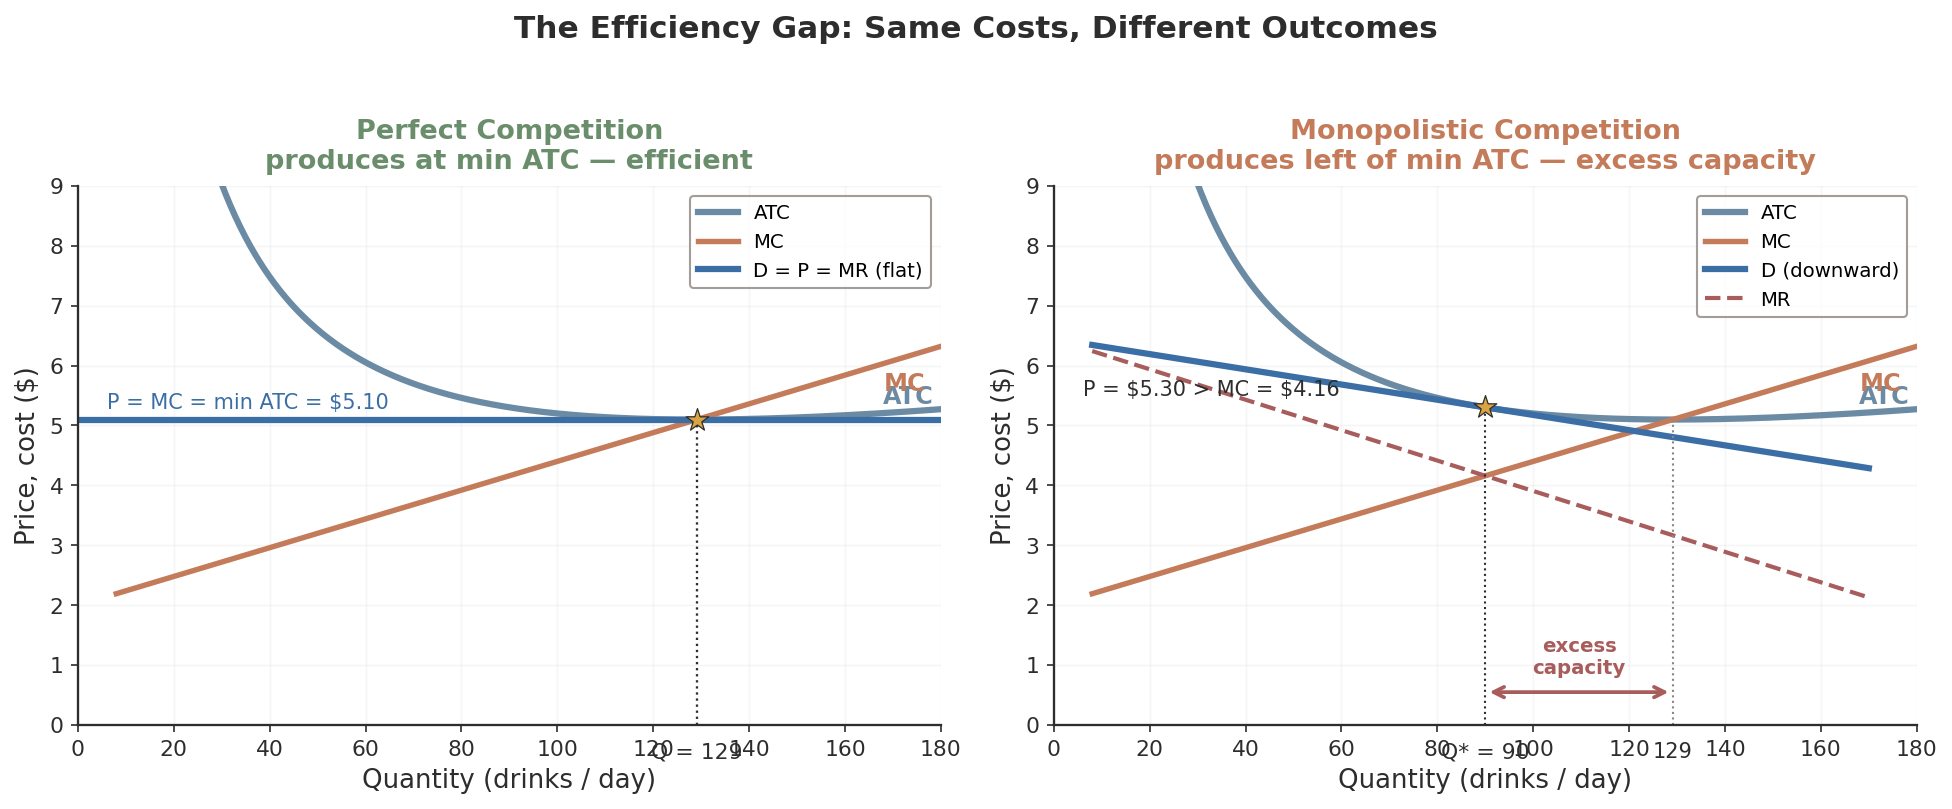
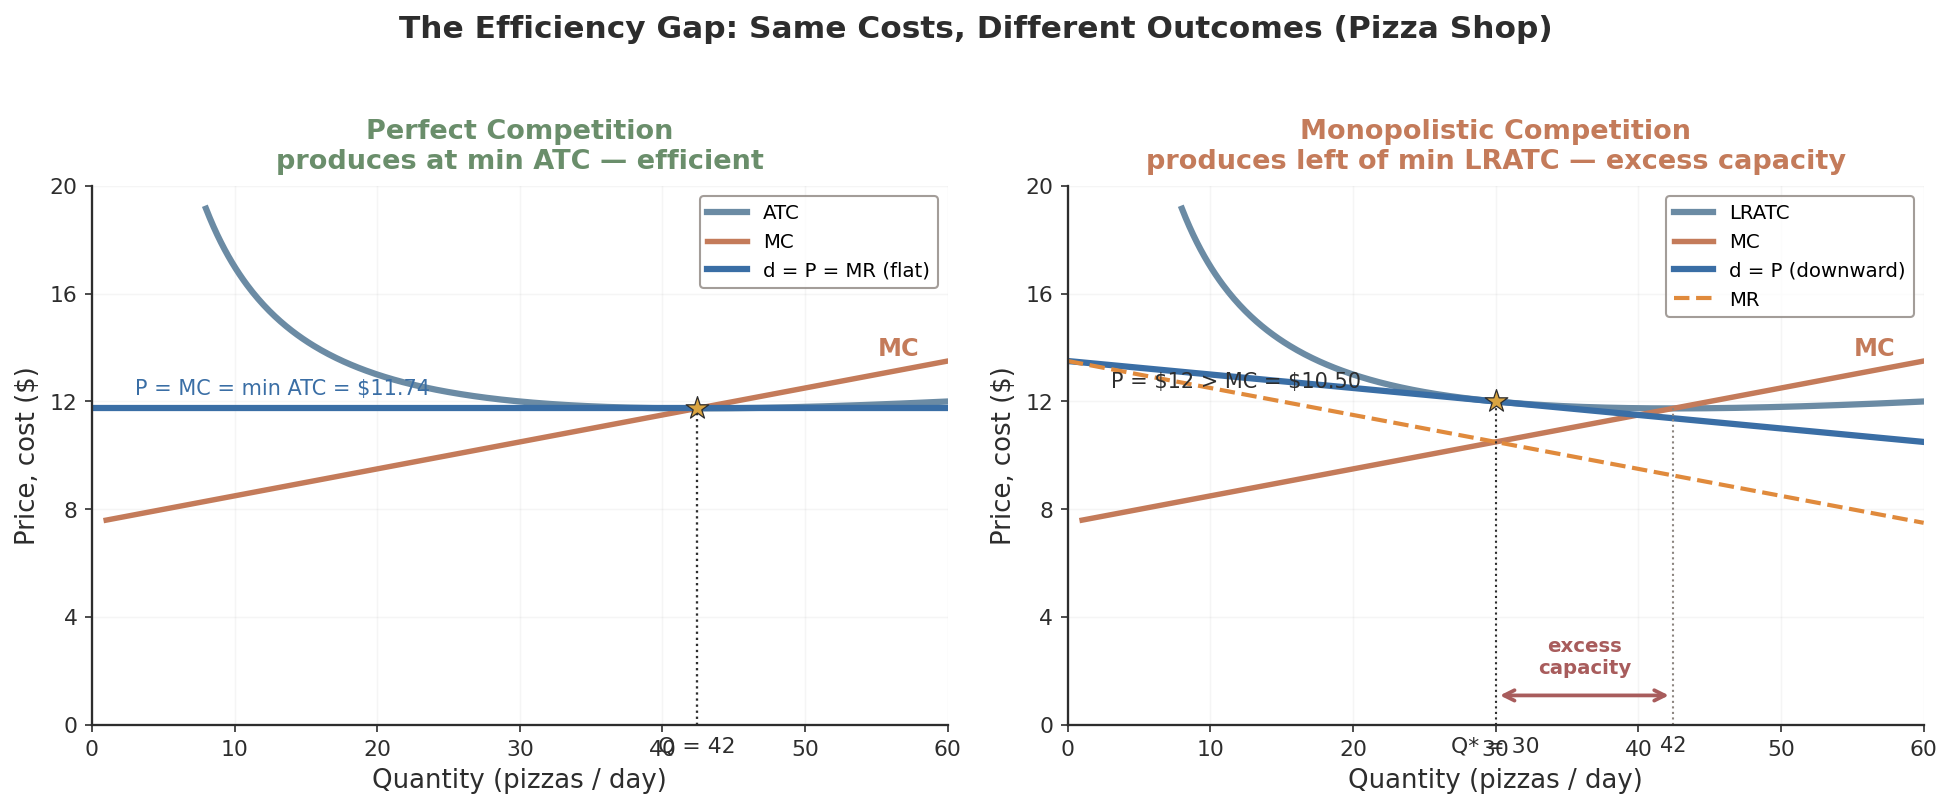
ch12: rescale cost-curve charts to pizza market (P=$12, Q=30/day; LRATC labels)
Pages 35/41 (native f121/f122) + 42/46/50 (static figs) rescaled to FC=90,v=7.5,
w=0.05: long-run tangency at Q*=30, P=LRATC=$12, MC=$10.50, markup $1.50, min
LRATC $11.74 @ Q=42. Axes 'pizzas/day' $0-20. Long-run charts labeled LRATC.

diff --git a/econ1116/ch12-monopolistic-competition/index.html b/econ1116/ch12-monopolistic-competition/index.html
@@ -604,11 +604,11 @@
   <div style="text-align: center; margin-bottom: 2px;"><span id="f121-banner" style="display:inline-block; font-size:12pt; font-weight:700; padding:3px 16px; border-radius:6px;"></span></div>
   <div id="f121-score" style="text-align:center; font-size:12pt; font-weight:700; display:flex; flex-wrap:wrap; justify-content:center; gap:3px 18px; margin:0 0 2px; min-height:16px;"></div>
   <svg id="f121-svg" viewBox="0 0 700 380" preserveAspectRatio="xMidYMid meet" style="width:100%; height:auto; max-height:318px; display:block;"></svg>
-  <div style="max-width: 540px; margin: 4px auto 0;"><label class="iv-label">Demand position &mdash; entry shifts it left, exit shifts it right</label><input type="range" class="iv-slider" id="f121-a" min="5.2" max="7.8" step="0.02" value="7.4"></div>
+  <div style="max-width: 540px; margin: 4px auto 0;"><label class="iv-label">Demand position &mdash; entry shifts it left, exit shifts it right</label><input type="range" class="iv-slider" id="f121-a" min="12.0" max="15.0" step="0.05" value="14.5"></div>
   <div style="text-align:center; margin-top:6px; display:flex; gap:8px; justify-content:center; flex-wrap:wrap;">
-   <button class="iv-btn" data-a="7.4" data-grp="f121">Short-Run Profit</button>
-   <button class="iv-btn" data-a="6.42" data-grp="f121">Long-Run (P = ATC)</button>
-   <button class="iv-btn" data-a="5.5" data-grp="f121">Short-Run Loss</button>
+   <button class="iv-btn" data-a="14.5" data-grp="f121">Short-Run Profit</button>
+   <button class="iv-btn" data-a="13.5" data-grp="f121">Long-Run (P = ATC)</button>
+   <button class="iv-btn" data-a="12.5" data-grp="f121">Short-Run Loss</button>
   </div>
   <p class="iv-cap">Figure 12.1 &mdash; drag demand or pick a scenario. Q* is where MR = MC; the rectangle is profit (green) or loss (red).</p>
  </div>
@@ -697,7 +697,7 @@
    <div style="text-align:center; margin-bottom:2px;"><span id="f122-banner" style="display:inline-block; font-size:11pt; font-weight:700; padding:2px 12px; border-radius:6px;"></span></div>
    <div id="f122-score" style="text-align:center; font-size:10.5pt; font-weight:700; display:flex; flex-wrap:wrap; justify-content:center; gap:2px 12px; margin:0 0 2px; min-height:14px;"></div>
    <svg id="f122-svg" viewBox="0 0 700 380" preserveAspectRatio="xMidYMid meet" style="width:100%; height:auto; max-height:288px; display:block;"></svg>
-   <div style="max-width:420px; margin:4px auto 0;"><label class="iv-label">Drag demand &mdash; up = profit, down = loss</label><input type="range" class="iv-slider" id="f122-a" min="5.2" max="7.8" step="0.02" value="6.42"></div>
+   <div style="max-width:420px; margin:4px auto 0;"><label class="iv-label">Drag demand &mdash; up = profit, down = loss</label><input type="range" class="iv-slider" id="f122-a" min="12.0" max="15.0" step="0.05" value="13.5"></div>
    <div style="text-align:center; margin-top:6px;"><button class="iv-btn" id="f122-release"><i class="fa-solid fa-arrows-rotate"></i> Release &rarr; entry/exit eases to tangency</button></div>
    <p class="iv-cap">Figure 12.2 &mdash; the tangency is an <strong>attractor</strong>: perturb demand, release, and entry/exit pulls it back to P = ATC.</p>
   </div>
@@ -1324,12 +1324,13 @@
 <!-- ===== Native interactive monopolistic-competition charts (Figures 12.1 & 12.2), fig-airline-interactive house style ===== -->
 <script>
 (function(){
- function makeMC(prefix, defA, attractor){
+ function makeMC(prefix, defA, attractor, atcLabel){
+  atcLabel = atcLabel || 'ATC';
   var svg=document.getElementById(prefix+'-svg'); if(!svg) return;
   var aS=document.getElementById(prefix+'-a');
   var bn=document.getElementById(prefix+'-banner'), sc=document.getElementById(prefix+'-score');
-  var FC=200, V=2, W=0.012, B=0.0124, TAN=6.42;
-  var QMAX=160, PMAX=10, L=56, R=678, T=20, Bm=330;
+  var FC=90, V=7.5, W=0.05, B=0.05, TAN=13.5;
+  var QMAX=60, PMAX=20, L=56, R=678, T=20, Bm=330;
   function xx(q){return L+q*((R-L)/QMAX);}
   function yy(p){return Bm-p*((Bm-T)/PMAX);}
   function ATC(q){return FC/q+V+W*q;}
@@ -1340,11 +1341,11 @@
   function pathfn(fn,q0,q1){var d='',f=true,q,vv;for(q=q0;q<=q1+1e-6;q+=2){vv=fn(q);if(vv>PMAX+0.4||vv<-0.4){f=true;continue;}d+=(f?'M':'L')+xx(q).toFixed(1)+' '+yy(vv).toFixed(1)+' ';f=false;}return d;}
   function axes(){
    var s='',p,q,x,y;
-   for(p=0;p<=PMAX;p+=2){y=yy(p);s+='<line x1="'+L+'" y1="'+y+'" x2="'+R+'" y2="'+y+'" stroke="rgba(150,150,150,0.20)" stroke-width="1"/><text x="'+(L-7)+'" y="'+(y+4)+'" text-anchor="end" font-size="11" fill="#8C8580">$'+p+'</text>';}
-   for(q=0;q<=QMAX;q+=40){x=xx(q);s+='<line x1="'+x+'" y1="'+T+'" x2="'+x+'" y2="'+Bm+'" stroke="rgba(150,150,150,0.12)" stroke-width="1"/><text x="'+x+'" y="'+(Bm+17)+'" text-anchor="middle" font-size="11" fill="#8C8580">'+q+'</text>';}
+   for(p=0;p<=PMAX;p+=4){y=yy(p);s+='<line x1="'+L+'" y1="'+y+'" x2="'+R+'" y2="'+y+'" stroke="rgba(150,150,150,0.20)" stroke-width="1"/><text x="'+(L-7)+'" y="'+(y+4)+'" text-anchor="end" font-size="11" fill="#8C8580">$'+p+'</text>';}
+   for(q=0;q<=QMAX;q+=15){x=xx(q);s+='<line x1="'+x+'" y1="'+T+'" x2="'+x+'" y2="'+Bm+'" stroke="rgba(150,150,150,0.12)" stroke-width="1"/><text x="'+x+'" y="'+(Bm+17)+'" text-anchor="middle" font-size="11" fill="#8C8580">'+q+'</text>';}
    s+='<line x1="'+L+'" y1="'+T+'" x2="'+L+'" y2="'+Bm+'" stroke="#3A3632" stroke-width="1.4"/><line x1="'+L+'" y1="'+Bm+'" x2="'+R+'" y2="'+Bm+'" stroke="#3A3632" stroke-width="1.4"/>';
    s+='<text x="15" y="175" text-anchor="middle" font-size="11" fill="#3A3632" transform="rotate(-90 15 175)">Price, cost ($)</text>';
-   s+='<text x="367" y="'+(Bm+34)+'" text-anchor="middle" font-size="11.5" fill="#3A3632">Quantity (drinks / day)</text>';
+   s+='<text x="367" y="'+(Bm+34)+'" text-anchor="middle" font-size="11.5" fill="#3A3632">Quantity (pizzas / day)</text>';
    return s;
   }
   function draw(){
@@ -1358,8 +1359,8 @@
    s+='<path d="'+pathfn(MC,2,QMAX)+'" fill="none" stroke="#C47B5A" stroke-width="2.4"/>';
    s+='<path d="'+pathfn(function(q){return Df(a,q);},0,QMAX)+'" fill="none" stroke="#2563eb" stroke-width="2.8"/>';
    s+='<path d="'+pathfn(function(q){return MRf(a,q);},0,QMAX)+'" fill="none" stroke="#8b5cf6" stroke-width="2.2" stroke-dasharray="7 4"/>';
-   s+='<text x="'+(R-4)+'" y="'+(yy(MC(157))-6).toFixed(1)+'" text-anchor="end" font-size="12" font-weight="700" fill="#C47B5A">MC</text>';
-   s+='<text x="'+(R-4)+'" y="'+(yy(ATC(157))+15).toFixed(1)+'" text-anchor="end" font-size="12" font-weight="700" fill="#6B8BA4">ATC</text>';
+   s+='<text x="'+(R-4)+'" y="'+(yy(MC(57))-6).toFixed(1)+'" text-anchor="end" font-size="12" font-weight="700" fill="#C47B5A">MC</text>';
+   s+='<text x="'+(R-4)+'" y="'+(yy(ATC(57))+15).toFixed(1)+'" text-anchor="end" font-size="12" font-weight="700" fill="#6B8BA4">'+atcLabel+'</text>';
    s+='<text x="'+(xx(QMAX)-4)+'" y="'+(yy(Df(a,QMAX))-7).toFixed(1)+'" text-anchor="end" font-size="12.5" font-weight="700" font-style="italic" fill="#2563eb">D</text>';
    s+='<text x="'+xx(Math.min(QMAX-12,qs+26)).toFixed(1)+'" y="'+(yy(MRf(a,Math.min(QMAX-12,qs+26)))+14).toFixed(1)+'" font-size="11.5" font-weight="700" font-style="italic" fill="#8b5cf6">MR</text>';
    s+='<line x1="'+xx(qs).toFixed(1)+'" y1="'+yy(P).toFixed(1)+'" x2="'+xx(qs).toFixed(1)+'" y2="'+Bm+'" stroke="#9ca3af" stroke-width="1" stroke-dasharray="4 3"/>';
@@ -1368,12 +1369,12 @@
    s+='<circle cx="'+xx(qs).toFixed(1)+'" cy="'+yy(P).toFixed(1)+'" r="6.5" fill="#2563eb" stroke="#fff" stroke-width="2"/>';
    svg.innerHTML=s;
    var z=prof>0.5?'profit':(prof<-0.5?'loss':'zero');
-   var bt=z==='profit'?'P &gt; ATC &rarr; economic profit &mdash; new firms enter':(z==='loss'?'P &lt; ATC &rarr; economic loss &mdash; firms exit':'P = ATC &rarr; zero economic profit (long-run rest)');
+   var bt=z==='profit'?'P &gt; '+atcLabel+' &rarr; economic profit &mdash; new firms enter':(z==='loss'?'P &lt; '+atcLabel+' &rarr; economic loss &mdash; firms exit':'P = '+atcLabel+' &rarr; zero economic profit (long-run rest)');
    var bc=z==='profit'?'#4d7a4e':(z==='loss'?'#A85C5C':'#3A5A8A');
    var bg=z==='profit'?'rgba(106,142,107,0.16)':(z==='loss'?'rgba(168,92,92,0.14)':'rgba(107,139,164,0.16)');
    bn.innerHTML=bt; bn.style.color=bc; bn.style.background=bg;
    var pc=prof>=0?'#4d7a4e':'#A85C5C';
-   sc.innerHTML='<span style="color:#2563eb;">P* = $'+P.toFixed(2)+'</span><span style="color:#6B8BA4;">ATC = $'+atc.toFixed(2)+'</span><span style="color:#3A3632;">Q* = '+qs.toFixed(0)+'</span><span style="color:'+pc+';">Profit = $'+prof.toFixed(0)+'</span>';
+   sc.innerHTML='<span style="color:#2563eb;">P* = $'+P.toFixed(2)+'</span><span style="color:#6B8BA4;">'+atcLabel+' = $'+atc.toFixed(2)+'</span><span style="color:#3A3632;">Q* = '+qs.toFixed(0)+'</span><span style="color:'+pc+';">Profit = $'+prof.toFixed(0)+'</span>';
    document.querySelectorAll('[data-a][data-grp="'+prefix+'"]').forEach(function(btn){btn.classList.toggle('active',Math.abs(parseFloat(btn.dataset.a)-a)<0.03);});
   }
   aS.addEventListener('input',draw);
@@ -1388,8 +1389,8 @@
   }
   aS.value=defA; draw();
  }
- makeMC('f121', 7.4, false);
- makeMC('f122', 6.42, true);
+ makeMC('f121', 14.5, false, 'ATC');
+ makeMC('f122', 13.5, true, 'LRATC');
 })();
 </script>
 </body>

diff --git a/econ1116/ch12-monopolistic-competition/presentation.html b/econ1116/ch12-monopolistic-competition/presentation.html
@@ -604,11 +604,11 @@
   <div style="text-align: center; margin-bottom: 2px;"><span id="f121-banner" style="display:inline-block; font-size:12pt; font-weight:700; padding:3px 16px; border-radius:6px;"></span></div>
   <div id="f121-score" style="text-align:center; font-size:12pt; font-weight:700; display:flex; flex-wrap:wrap; justify-content:center; gap:3px 18px; margin:0 0 2px; min-height:16px;"></div>
   <svg id="f121-svg" viewBox="0 0 700 380" preserveAspectRatio="xMidYMid meet" style="width:100%; height:auto; max-height:318px; display:block;"></svg>
-  <div style="max-width: 540px; margin: 4px auto 0;"><label class="iv-label">Demand position &mdash; entry shifts it left, exit shifts it right</label><input type="range" class="iv-slider" id="f121-a" min="5.2" max="7.8" step="0.02" value="7.4"></div>
+  <div style="max-width: 540px; margin: 4px auto 0;"><label class="iv-label">Demand position &mdash; entry shifts it left, exit shifts it right</label><input type="range" class="iv-slider" id="f121-a" min="12.0" max="15.0" step="0.05" value="14.5"></div>
   <div style="text-align:center; margin-top:6px; display:flex; gap:8px; justify-content:center; flex-wrap:wrap;">
-   <button class="iv-btn" data-a="7.4" data-grp="f121">Short-Run Profit</button>
-   <button class="iv-btn" data-a="6.42" data-grp="f121">Long-Run (P = ATC)</button>
-   <button class="iv-btn" data-a="5.5" data-grp="f121">Short-Run Loss</button>
+   <button class="iv-btn" data-a="14.5" data-grp="f121">Short-Run Profit</button>
+   <button class="iv-btn" data-a="13.5" data-grp="f121">Long-Run (P = ATC)</button>
+   <button class="iv-btn" data-a="12.5" data-grp="f121">Short-Run Loss</button>
   </div>
   <p class="iv-cap">Figure 12.1 &mdash; drag demand or pick a scenario. Q* is where MR = MC; the rectangle is profit (green) or loss (red).</p>
  </div>
@@ -697,7 +697,7 @@
    <div style="text-align:center; margin-bottom:2px;"><span id="f122-banner" style="display:inline-block; font-size:11pt; font-weight:700; padding:2px 12px; border-radius:6px;"></span></div>
    <div id="f122-score" style="text-align:center; font-size:10.5pt; font-weight:700; display:flex; flex-wrap:wrap; justify-content:center; gap:2px 12px; margin:0 0 2px; min-height:14px;"></div>
    <svg id="f122-svg" viewBox="0 0 700 380" preserveAspectRatio="xMidYMid meet" style="width:100%; height:auto; max-height:288px; display:block;"></svg>
-   <div style="max-width:420px; margin:4px auto 0;"><label class="iv-label">Drag demand &mdash; up = profit, down = loss</label><input type="range" class="iv-slider" id="f122-a" min="5.2" max="7.8" step="0.02" value="6.42"></div>
+   <div style="max-width:420px; margin:4px auto 0;"><label class="iv-label">Drag demand &mdash; up = profit, down = loss</label><input type="range" class="iv-slider" id="f122-a" min="12.0" max="15.0" step="0.05" value="13.5"></div>
    <div style="text-align:center; margin-top:6px;"><button class="iv-btn" id="f122-release"><i class="fa-solid fa-arrows-rotate"></i> Release &rarr; entry/exit eases to tangency</button></div>
    <p class="iv-cap">Figure 12.2 &mdash; the tangency is an <strong>attractor</strong>: perturb demand, release, and entry/exit pulls it back to P = ATC.</p>
   </div>
@@ -1324,12 +1324,13 @@
 <!-- ===== Native interactive monopolistic-competition charts (Figures 12.1 & 12.2), fig-airline-interactive house style ===== -->
 <script>
 (function(){
- function makeMC(prefix, defA, attractor){
+ function makeMC(prefix, defA, attractor, atcLabel){
+  atcLabel = atcLabel || 'ATC';
   var svg=document.getElementById(prefix+'-svg'); if(!svg) return;
   var aS=document.getElementById(prefix+'-a');
   var bn=document.getElementById(prefix+'-banner'), sc=document.getElementById(prefix+'-score');
-  var FC=200, V=2, W=0.012, B=0.0124, TAN=6.42;
-  var QMAX=160, PMAX=10, L=56, R=678, T=20, Bm=330;
+  var FC=90, V=7.5, W=0.05, B=0.05, TAN=13.5;
+  var QMAX=60, PMAX=20, L=56, R=678, T=20, Bm=330;
   function xx(q){return L+q*((R-L)/QMAX);}
   function yy(p){return Bm-p*((Bm-T)/PMAX);}
   function ATC(q){return FC/q+V+W*q;}
@@ -1340,11 +1341,11 @@
   function pathfn(fn,q0,q1){var d='',f=true,q,vv;for(q=q0;q<=q1+1e-6;q+=2){vv=fn(q);if(vv>PMAX+0.4||vv<-0.4){f=true;continue;}d+=(f?'M':'L')+xx(q).toFixed(1)+' '+yy(vv).toFixed(1)+' ';f=false;}return d;}
   function axes(){
    var s='',p,q,x,y;
-   for(p=0;p<=PMAX;p+=2){y=yy(p);s+='<line x1="'+L+'" y1="'+y+'" x2="'+R+'" y2="'+y+'" stroke="rgba(150,150,150,0.20)" stroke-width="1"/><text x="'+(L-7)+'" y="'+(y+4)+'" text-anchor="end" font-size="11" fill="#8C8580">$'+p+'</text>';}
-   for(q=0;q<=QMAX;q+=40){x=xx(q);s+='<line x1="'+x+'" y1="'+T+'" x2="'+x+'" y2="'+Bm+'" stroke="rgba(150,150,150,0.12)" stroke-width="1"/><text x="'+x+'" y="'+(Bm+17)+'" text-anchor="middle" font-size="11" fill="#8C8580">'+q+'</text>';}
+   for(p=0;p<=PMAX;p+=4){y=yy(p);s+='<line x1="'+L+'" y1="'+y+'" x2="'+R+'" y2="'+y+'" stroke="rgba(150,150,150,0.20)" stroke-width="1"/><text x="'+(L-7)+'" y="'+(y+4)+'" text-anchor="end" font-size="11" fill="#8C8580">$'+p+'</text>';}
+   for(q=0;q<=QMAX;q+=15){x=xx(q);s+='<line x1="'+x+'" y1="'+T+'" x2="'+x+'" y2="'+Bm+'" stroke="rgba(150,150,150,0.12)" stroke-width="1"/><text x="'+x+'" y="'+(Bm+17)+'" text-anchor="middle" font-size="11" fill="#8C8580">'+q+'</text>';}
    s+='<line x1="'+L+'" y1="'+T+'" x2="'+L+'" y2="'+Bm+'" stroke="#3A3632" stroke-width="1.4"/><line x1="'+L+'" y1="'+Bm+'" x2="'+R+'" y2="'+Bm+'" stroke="#3A3632" stroke-width="1.4"/>';
    s+='<text x="15" y="175" text-anchor="middle" font-size="11" fill="#3A3632" transform="rotate(-90 15 175)">Price, cost ($)</text>';
-   s+='<text x="367" y="'+(Bm+34)+'" text-anchor="middle" font-size="11.5" fill="#3A3632">Quantity (drinks / day)</text>';
+   s+='<text x="367" y="'+(Bm+34)+'" text-anchor="middle" font-size="11.5" fill="#3A3632">Quantity (pizzas / day)</text>';
    return s;
   }
   function draw(){
@@ -1358,8 +1359,8 @@
    s+='<path d="'+pathfn(MC,2,QMAX)+'" fill="none" stroke="#C47B5A" stroke-width="2.4"/>';
    s+='<path d="'+pathfn(function(q){return Df(a,q);},0,QMAX)+'" fill="none" stroke="#2563eb" stroke-width="2.8"/>';
    s+='<path d="'+pathfn(function(q){return MRf(a,q);},0,QMAX)+'" fill="none" stroke="#8b5cf6" stroke-width="2.2" stroke-dasharray="7 4"/>';
-   s+='<text x="'+(R-4)+'" y="'+(yy(MC(157))-6).toFixed(1)+'" text-anchor="end" font-size="12" font-weight="700" fill="#C47B5A">MC</text>';
-   s+='<text x="'+(R-4)+'" y="'+(yy(ATC(157))+15).toFixed(1)+'" text-anchor="end" font-size="12" font-weight="700" fill="#6B8BA4">ATC</text>';
+   s+='<text x="'+(R-4)+'" y="'+(yy(MC(57))-6).toFixed(1)+'" text-anchor="end" font-size="12" font-weight="700" fill="#C47B5A">MC</text>';
+   s+='<text x="'+(R-4)+'" y="'+(yy(ATC(57))+15).toFixed(1)+'" text-anchor="end" font-size="12" font-weight="700" fill="#6B8BA4">'+atcLabel+'</text>';
    s+='<text x="'+(xx(QMAX)-4)+'" y="'+(yy(Df(a,QMAX))-7).toFixed(1)+'" text-anchor="end" font-size="12.5" font-weight="700" font-style="italic" fill="#2563eb">D</text>';
    s+='<text x="'+xx(Math.min(QMAX-12,qs+26)).toFixed(1)+'" y="'+(yy(MRf(a,Math.min(QMAX-12,qs+26)))+14).toFixed(1)+'" font-size="11.5" font-weight="700" font-style="italic" fill="#8b5cf6">MR</text>';
    s+='<line x1="'+xx(qs).toFixed(1)+'" y1="'+yy(P).toFixed(1)+'" x2="'+xx(qs).toFixed(1)+'" y2="'+Bm+'" stroke="#9ca3af" stroke-width="1" stroke-dasharray="4 3"/>';
@@ -1368,12 +1369,12 @@
    s+='<circle cx="'+xx(qs).toFixed(1)+'" cy="'+yy(P).toFixed(1)+'" r="6.5" fill="#2563eb" stroke="#fff" stroke-width="2"/>';
    svg.innerHTML=s;
    var z=prof>0.5?'profit':(prof<-0.5?'loss':'zero');
-   var bt=z==='profit'?'P &gt; ATC &rarr; economic profit &mdash; new firms enter':(z==='loss'?'P &lt; ATC &rarr; economic loss &mdash; firms exit':'P = ATC &rarr; zero economic profit (long-run rest)');
+   var bt=z==='profit'?'P &gt; '+atcLabel+' &rarr; economic profit &mdash; new firms enter':(z==='loss'?'P &lt; '+atcLabel+' &rarr; economic loss &mdash; firms exit':'P = '+atcLabel+' &rarr; zero economic profit (long-run rest)');
    var bc=z==='profit'?'#4d7a4e':(z==='loss'?'#A85C5C':'#3A5A8A');
    var bg=z==='profit'?'rgba(106,142,107,0.16)':(z==='loss'?'rgba(168,92,92,0.14)':'rgba(107,139,164,0.16)');
    bn.innerHTML=bt; bn.style.color=bc; bn.style.background=bg;
    var pc=prof>=0?'#4d7a4e':'#A85C5C';
-   sc.innerHTML='<span style="color:#2563eb;">P* = $'+P.toFixed(2)+'</span><span style="color:#6B8BA4;">ATC = $'+atc.toFixed(2)+'</span><span style="color:#3A3632;">Q* = '+qs.toFixed(0)+'</span><span style="color:'+pc+';">Profit = $'+prof.toFixed(0)+'</span>';
+   sc.innerHTML='<span style="color:#2563eb;">P* = $'+P.toFixed(2)+'</span><span style="color:#6B8BA4;">'+atcLabel+' = $'+atc.toFixed(2)+'</span><span style="color:#3A3632;">Q* = '+qs.toFixed(0)+'</span><span style="color:'+pc+';">Profit = $'+prof.toFixed(0)+'</span>';
    document.querySelectorAll('[data-a][data-grp="'+prefix+'"]').forEach(function(btn){btn.classList.toggle('active',Math.abs(parseFloat(btn.dataset.a)-a)<0.03);});
   }
   aS.addEventListener('input',draw);
@@ -1388,8 +1389,8 @@
   }
   aS.value=defA; draw();
  }
- makeMC('f121', 7.4, false);
- makeMC('f122', 6.42, true);
+ makeMC('f121', 14.5, false, 'ATC');
+ makeMC('f122', 13.5, true, 'LRATC');
 })();
 </script>
 </body>
